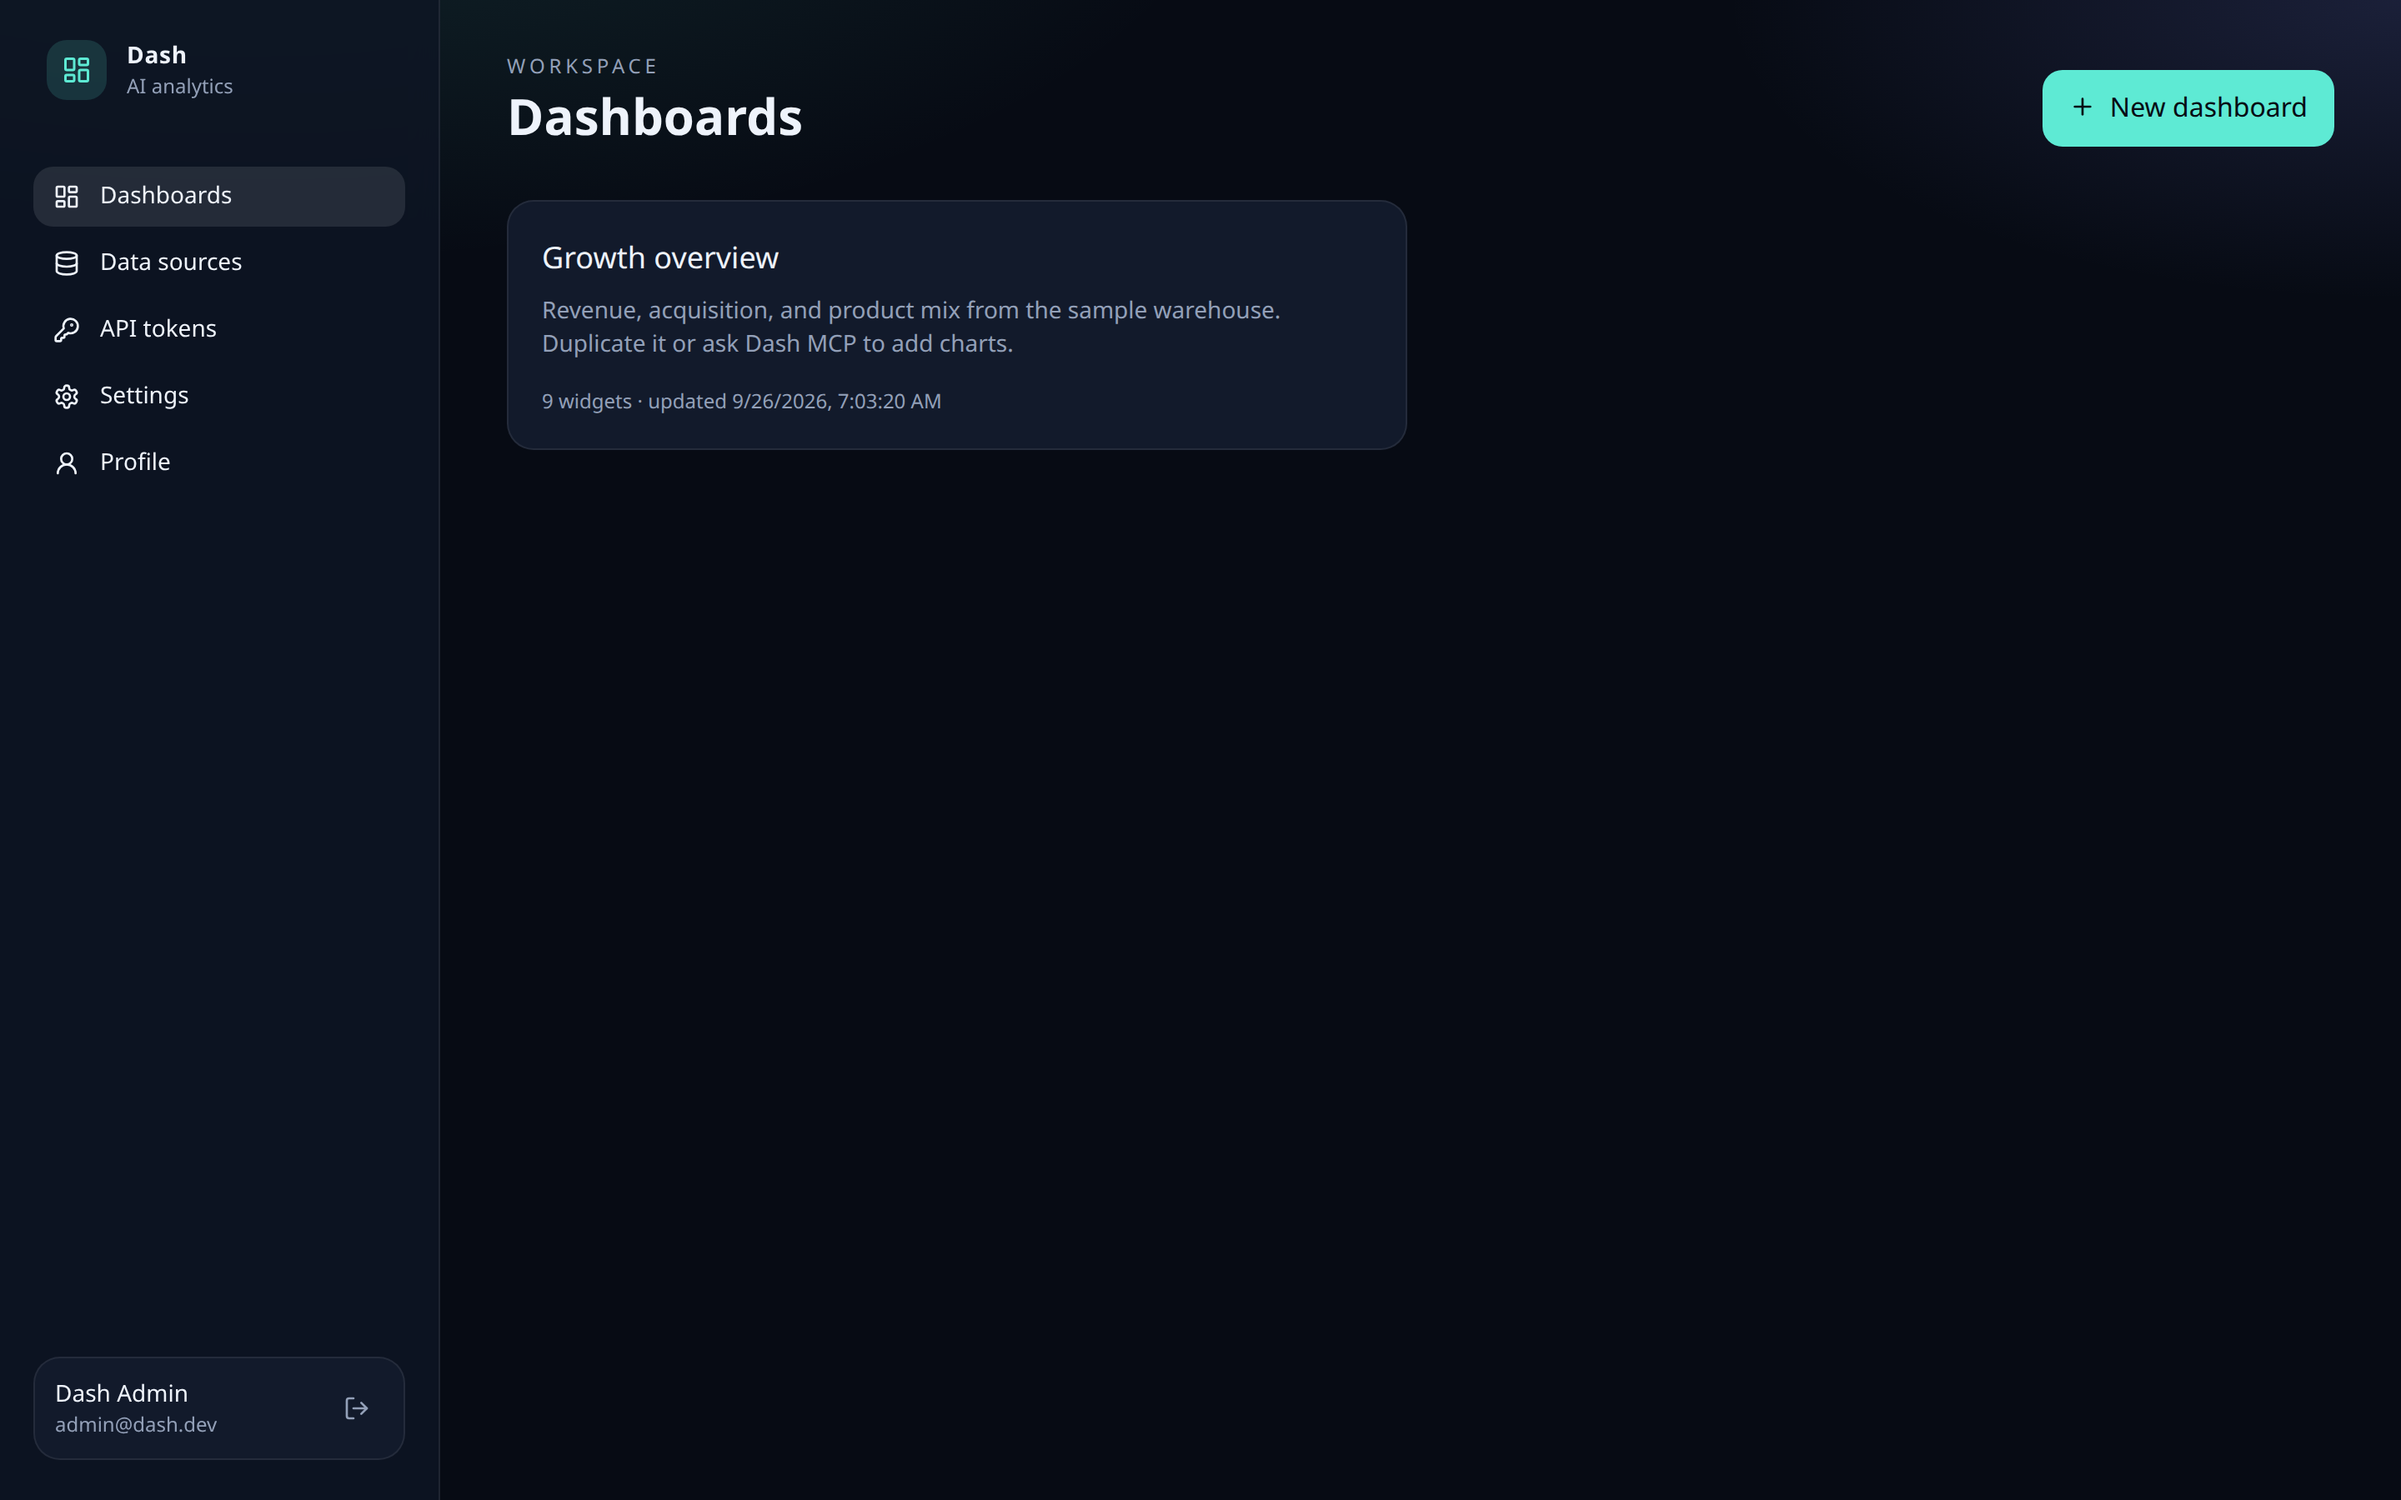
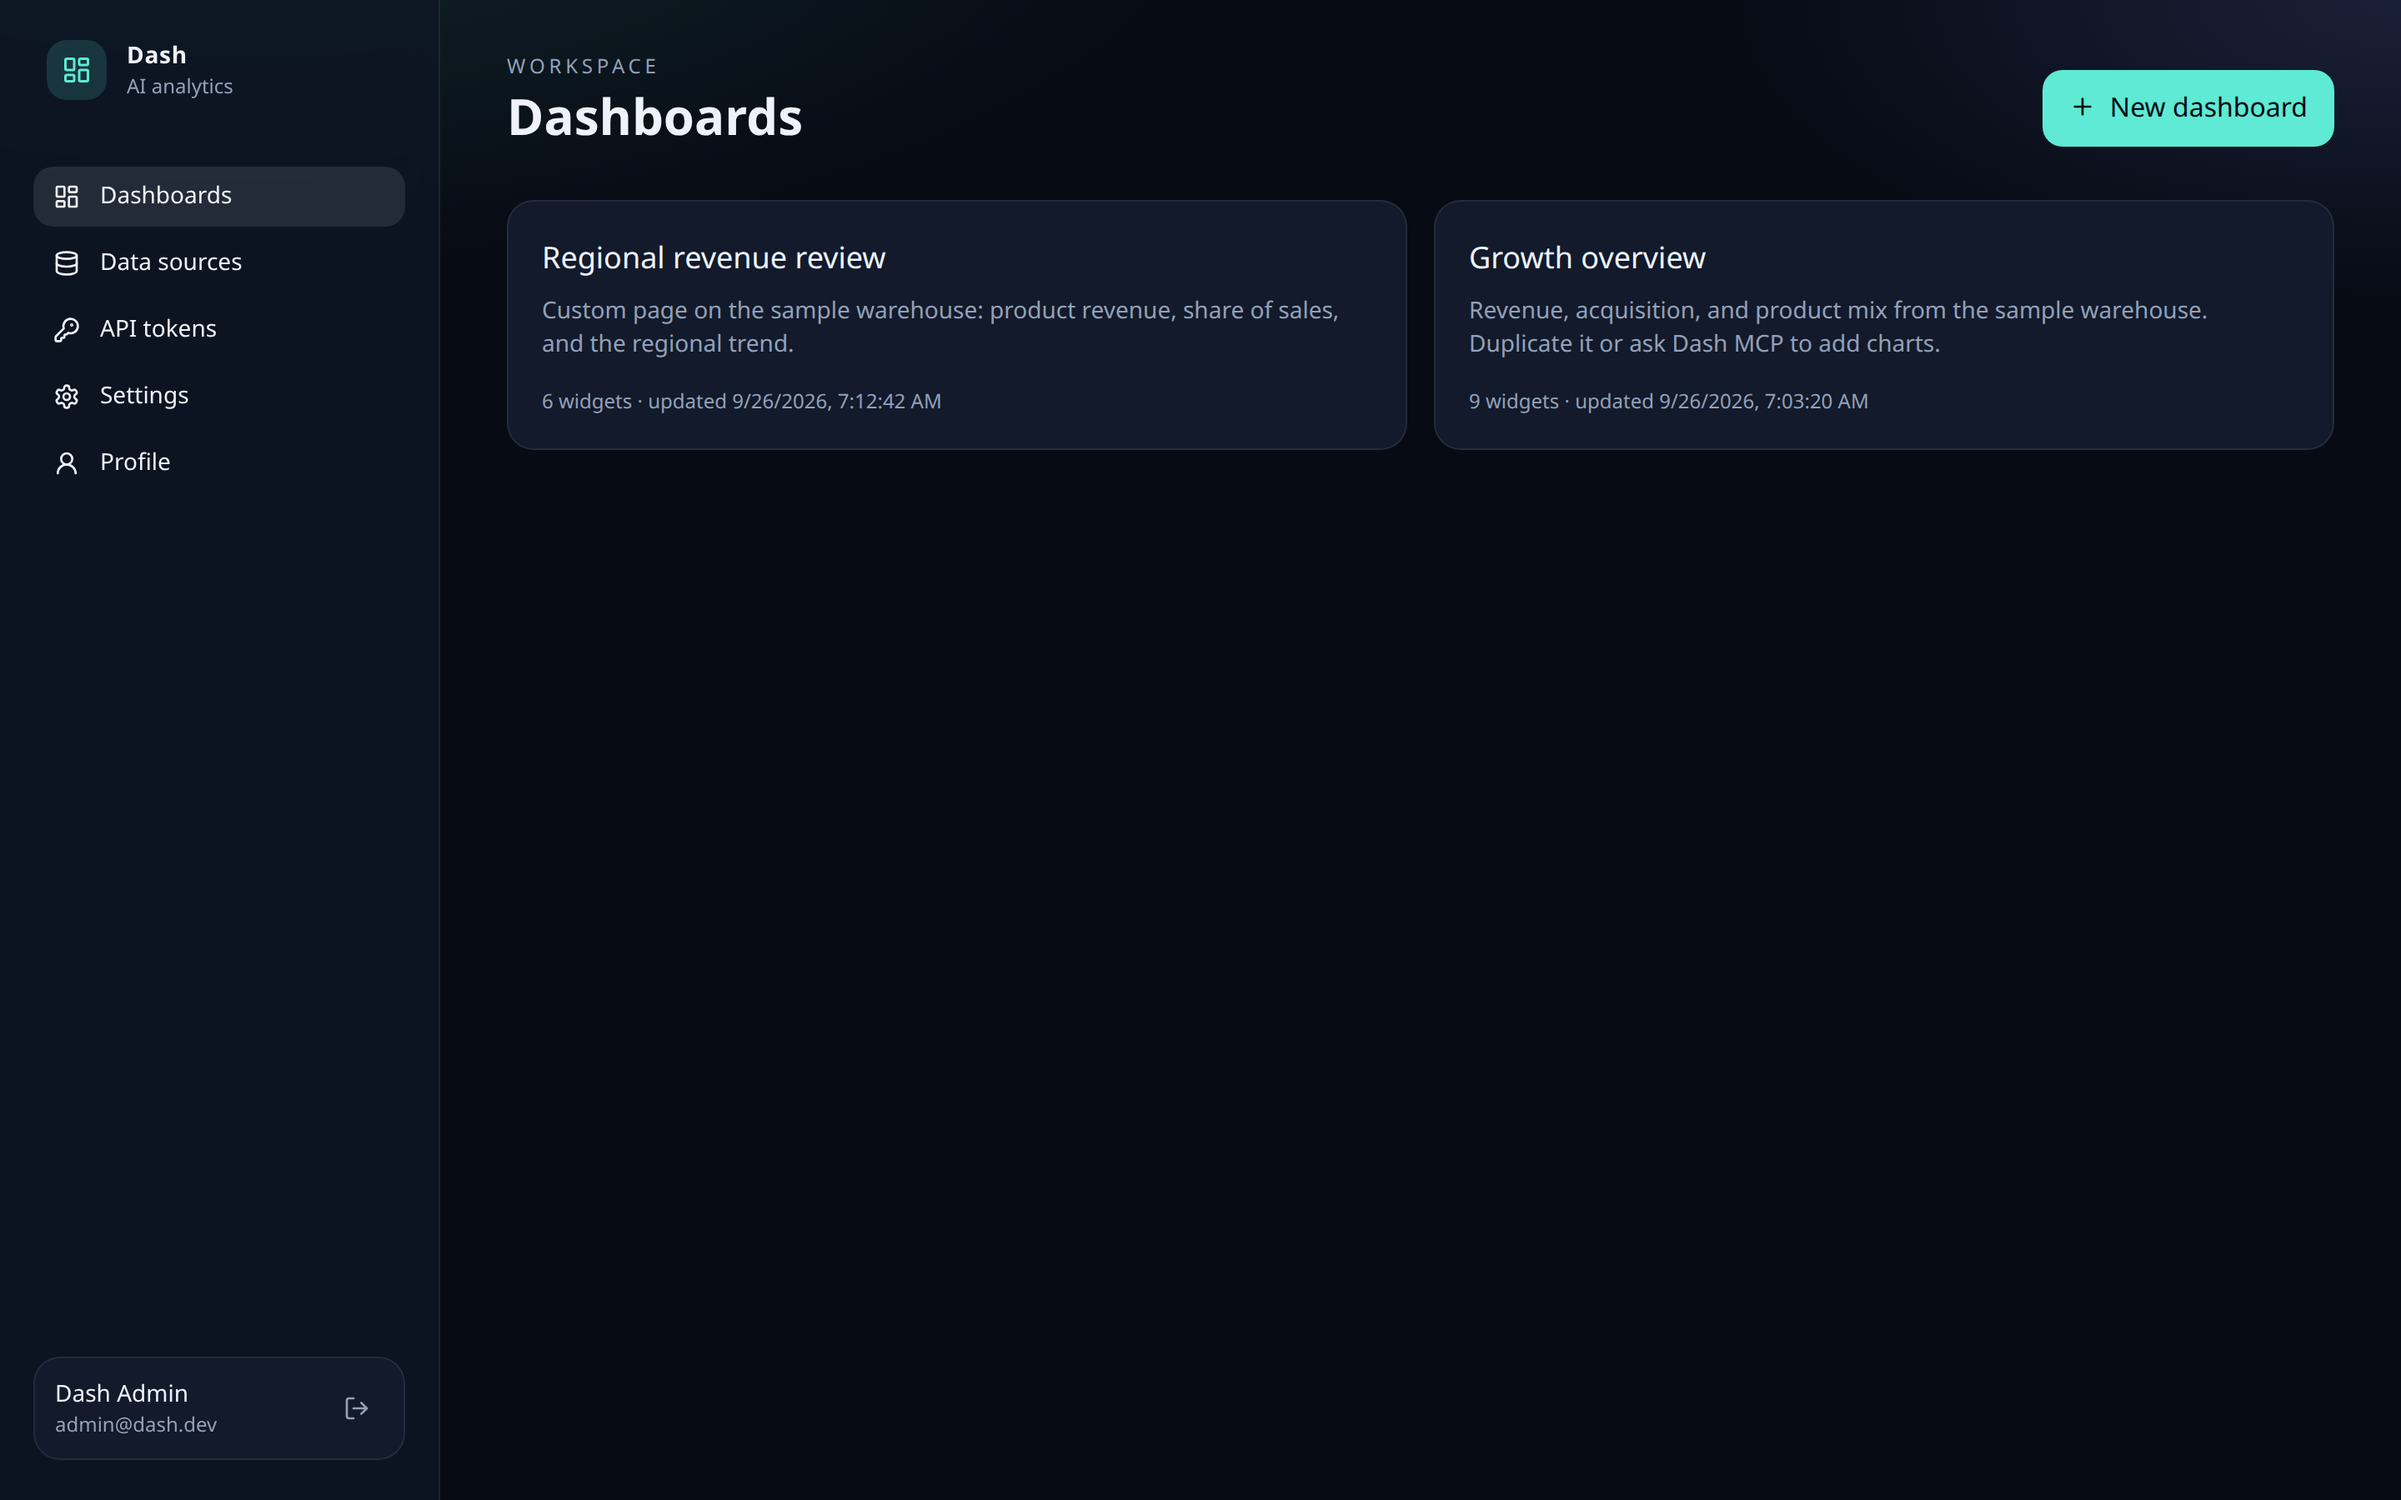
Add screenshots of a custom dashboard and Claude Code.
Show Regional revenue review, built on the sample warehouse, and the same product-revenue chart drawn inside a Claude Code session.

Changed region(s): [[0.5938, 0.1556, 0.9062, 0.28], [0.2188, 0.1556, 0.5625, 0.2489]]

diff --git a/README.md b/README.md
@@ -6,7 +6,7 @@ Dash is a modern Tableau / Looker-style workspace. Agents can list warehouses, r
 
 ## Screenshots
 
-Taken from the demo seed (`admin@dash.dev`). The sample warehouse ships with a **Growth overview** page.
+Taken from the demo workspace (`admin@dash.dev`). The sample warehouse ships with a **Growth overview** page. **Regional revenue review** is a custom page on the same data.
 
 ### Landing
 
@@ -18,13 +18,25 @@ Taken from the demo seed (`admin@dash.dev`). The sample warehouse ships with a *
 
 ### Dashboards
 
-<img alt="Dashboards list showing the Growth overview page" src="docs/screenshots/dashboards.png" width="880">
+<img alt="Dashboards list showing Growth overview and Regional revenue review" src="docs/screenshots/dashboards.png" width="880">
 
 ### Growth overview
 
 KPI tiles, a stacked revenue area chart, product mix, signups versus churn, units by product, and a filterable product table.
 
 <img alt="Growth overview dashboard with KPI cards, charts, and a product table" src="docs/screenshots/growth-overview.png" width="880">
+
+### Regional revenue review
+
+A custom page: product revenue, share of sales, the regional stack for the last 12 months, and net new accounts.
+
+<img alt="Custom Regional revenue review dashboard" src="docs/screenshots/regional-revenue.png" width="880">
+
+### In Claude Code
+
+The same product-revenue chart, drawn in the session after a Dash MCP query against the sample warehouse.
+
+<img alt="Revenue by product bar chart inside Claude Code" src="docs/screenshots/claude-code.png" width="880">
 
 ### Data sources
 

diff --git a/CHANGELOG.md b/CHANGELOG.md
@@ -6,7 +6,7 @@ All notable changes to Dash are documented here.
 
 ### Added
 
-- README screenshots of the landing page, sign-in, dashboards, sample warehouse, API tokens, settings, and profile.
+- README screenshots of the landing page, sign-in, dashboards, sample warehouse, a custom regional revenue page, the same chart inside Claude Code, API tokens, settings, and profile.
 - PNPM workspace monorepo on Node.js 24 (Active LTS).
 - `@dash/core` package with data-adapter types, structured queries, chart specs, dashboards, and API token helpers.
 - `@dash/adapter-postgres` implementing `DataAdapter` with parameterized SQL.
